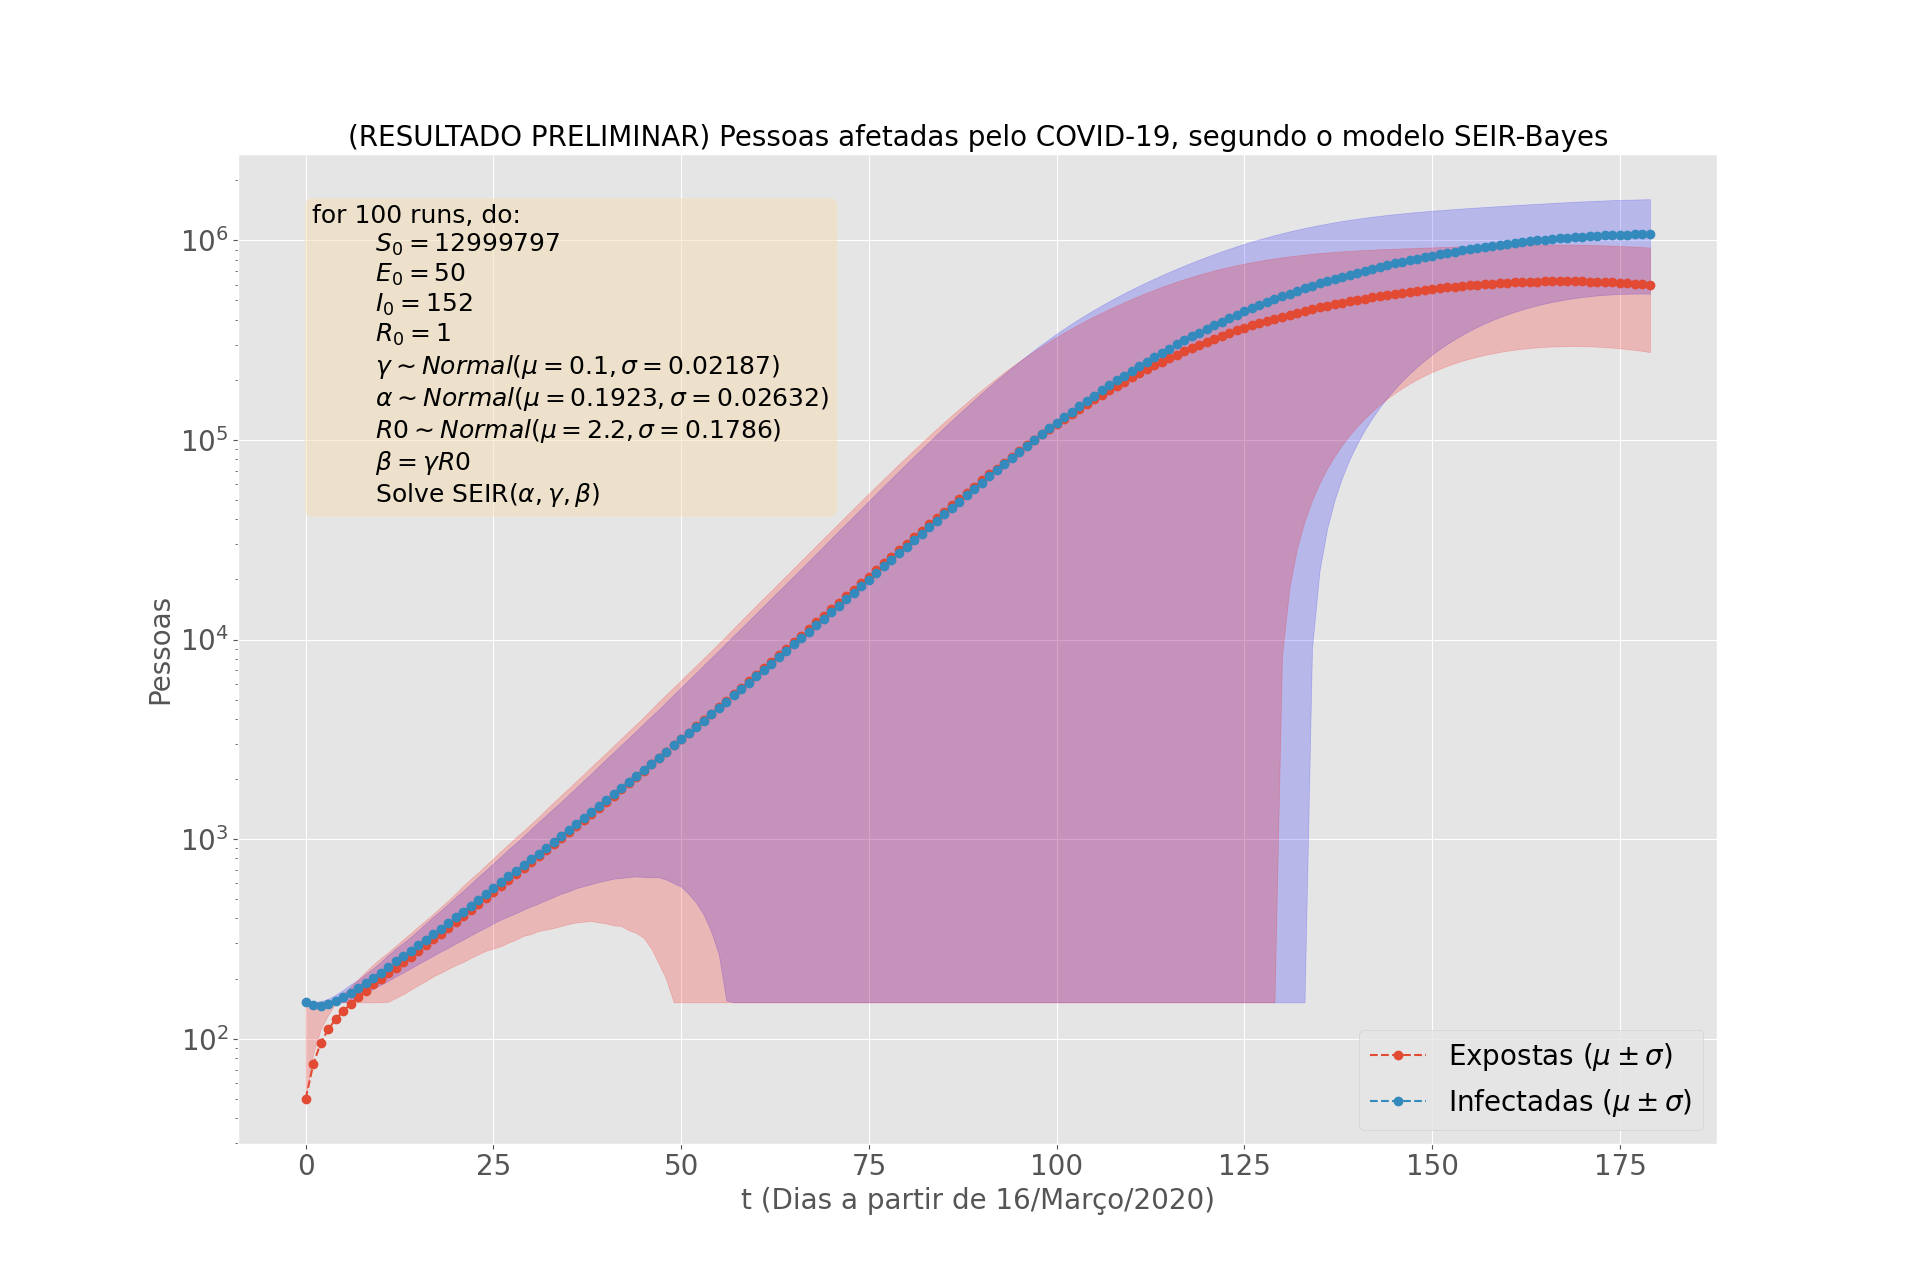
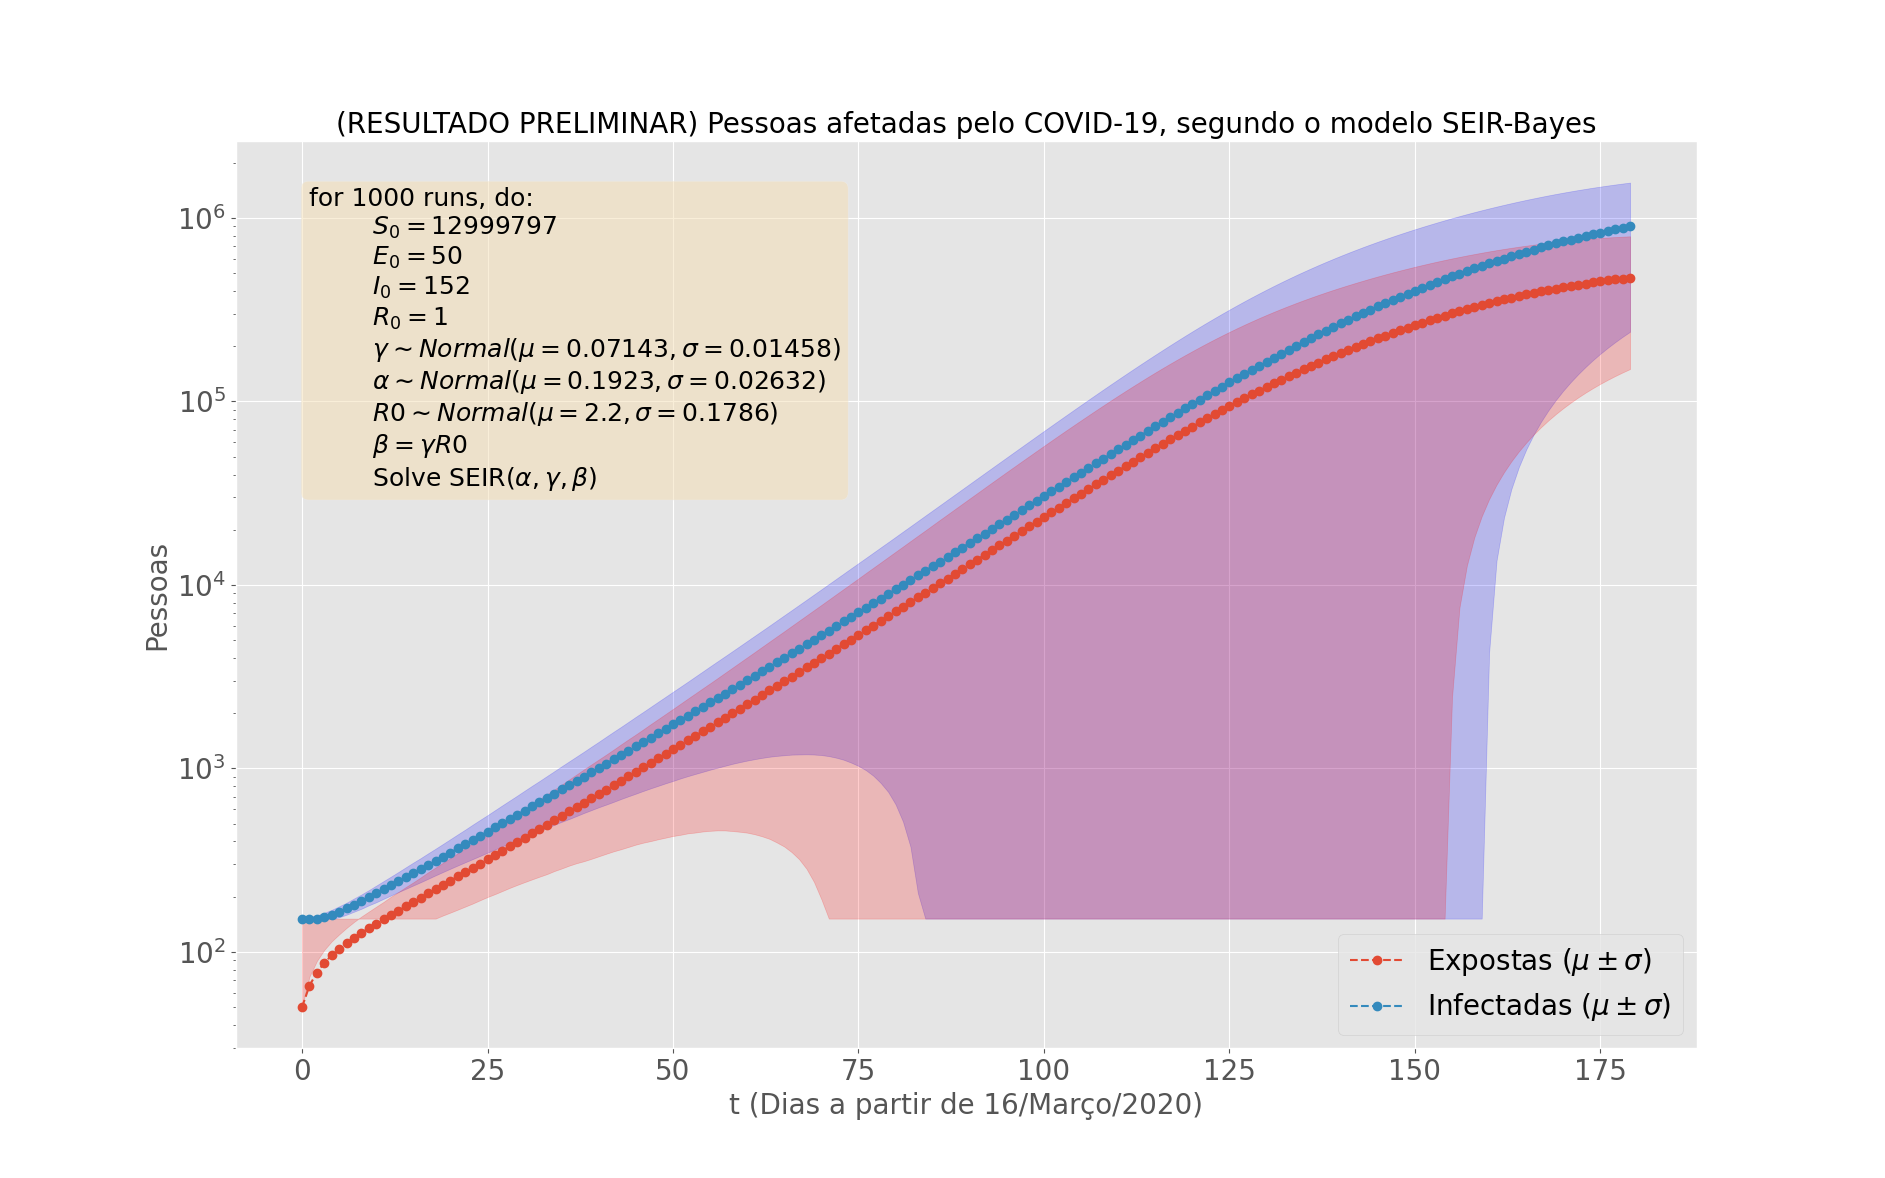
Update SEIR-Bayes

diff --git a/models/seir_bayes.py b/models/seir_bayes.py
@@ -45,6 +45,7 @@ def run_SEIR_BAYES_model(
         gamma = npr.normal(gamma_loc, gamma_scale)
         alpha = npr.normal(alpha_loc, alpha_scale)
         beta = R0_*gamma
+        print(f'Run {r}: [R0 {R0_}][1/gamma {1/gamma}][1/alpha {1/alpha}][beta {beta}]')
         for t in t_space[1:]:
             SE = npr.binomial(S[t-1, r], 1 - np.exp(-beta*I[t-1, r]/N))
             EI = npr.binomial(E[t-1, r], 1 - np.exp(-alpha))
@@ -69,12 +70,12 @@ if __name__ == '__main__':
     S0 = N - (E0 + I0 + R0)
     R0__loc = 2.2
     R0__scale = make_normal_scale(1.96, 2.55, .95, R0__loc)
-    gamma_loc=1/10 
-    gamma_scale = make_normal_scale(1/14, 1/7, .95, gamma_loc)
+    gamma_loc=1/14 
+    gamma_scale = make_normal_scale(1/16, 1/10, .95, gamma_loc)
     alpha_loc = 1/5.2
     alpha_scale = make_normal_scale(1/7, 1/4.1, .95, alpha_loc)
     t_max = 30*6
-    runs = 100
+    runs = 1_000
     S, E, I, R, t_space = run_SEIR_BAYES_model(
                                       N, E0, I0, R0, 
                                       R0__loc, R0__scale,
